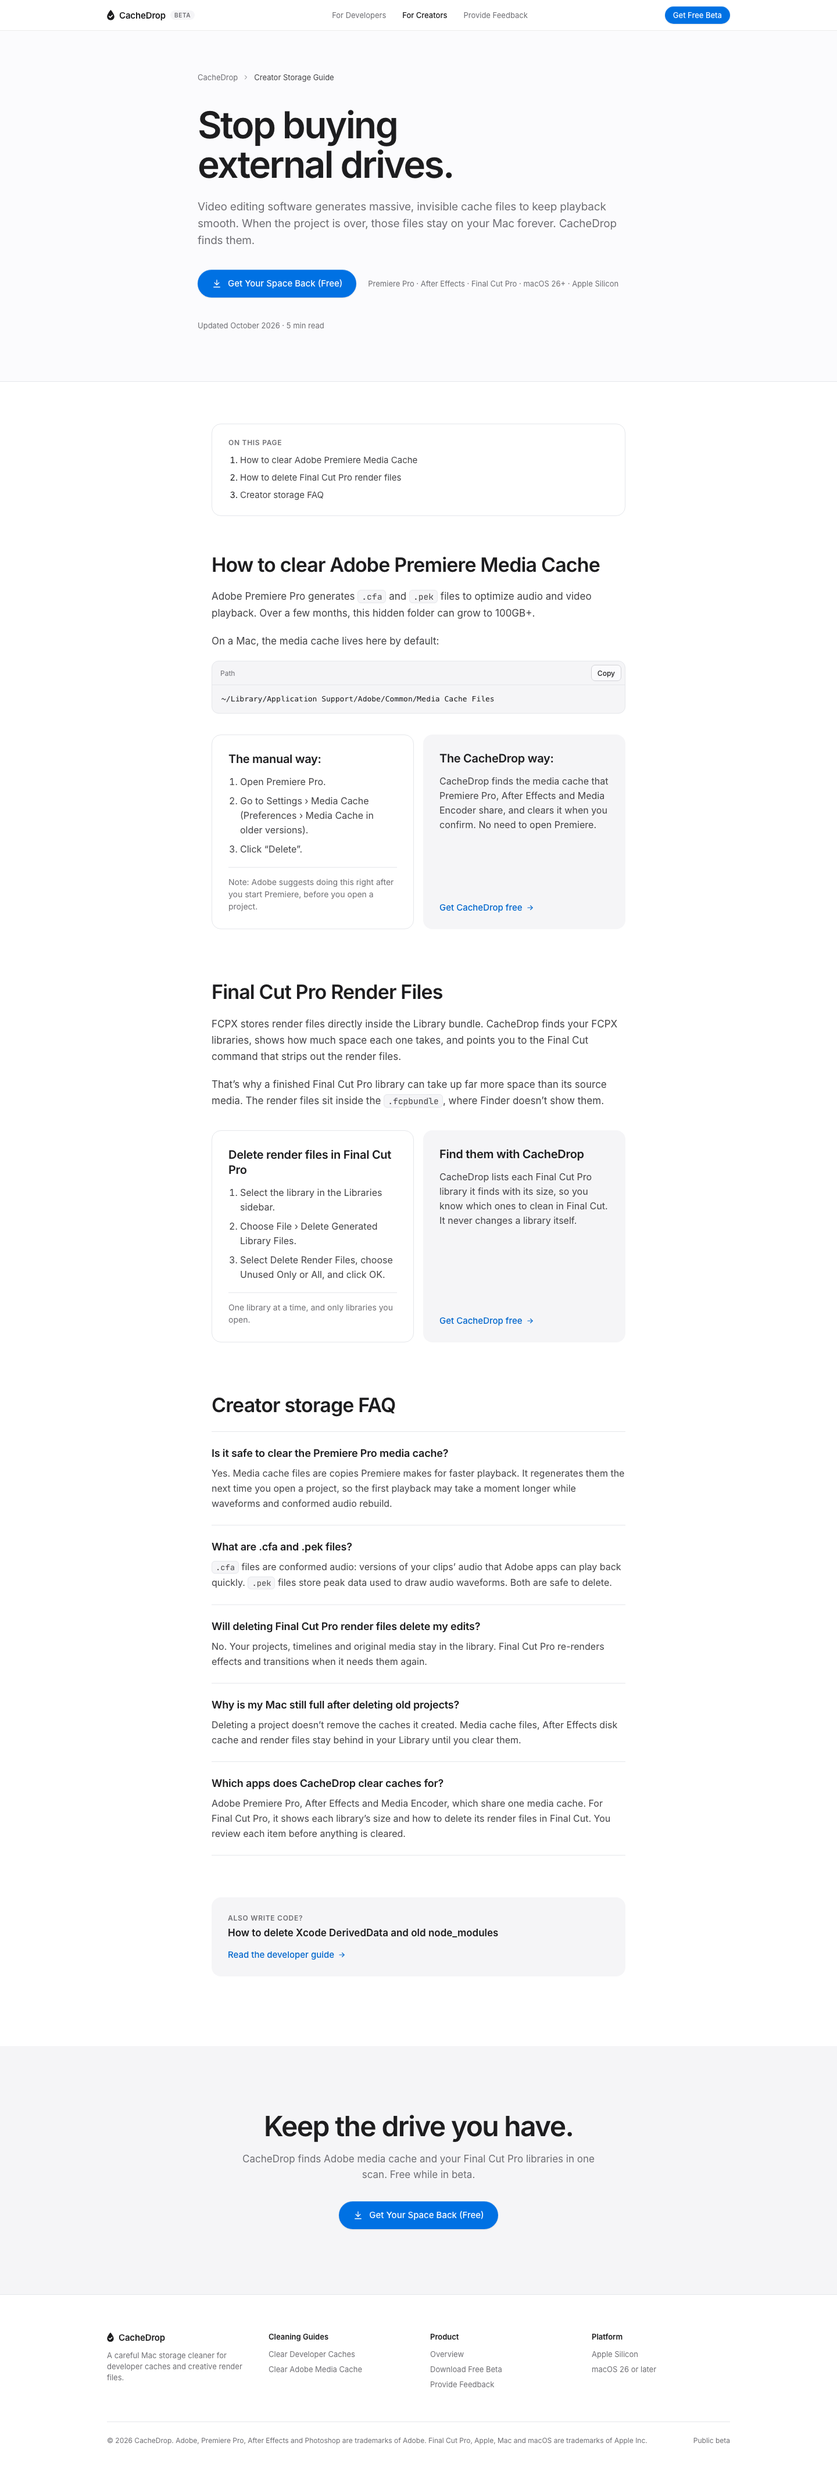
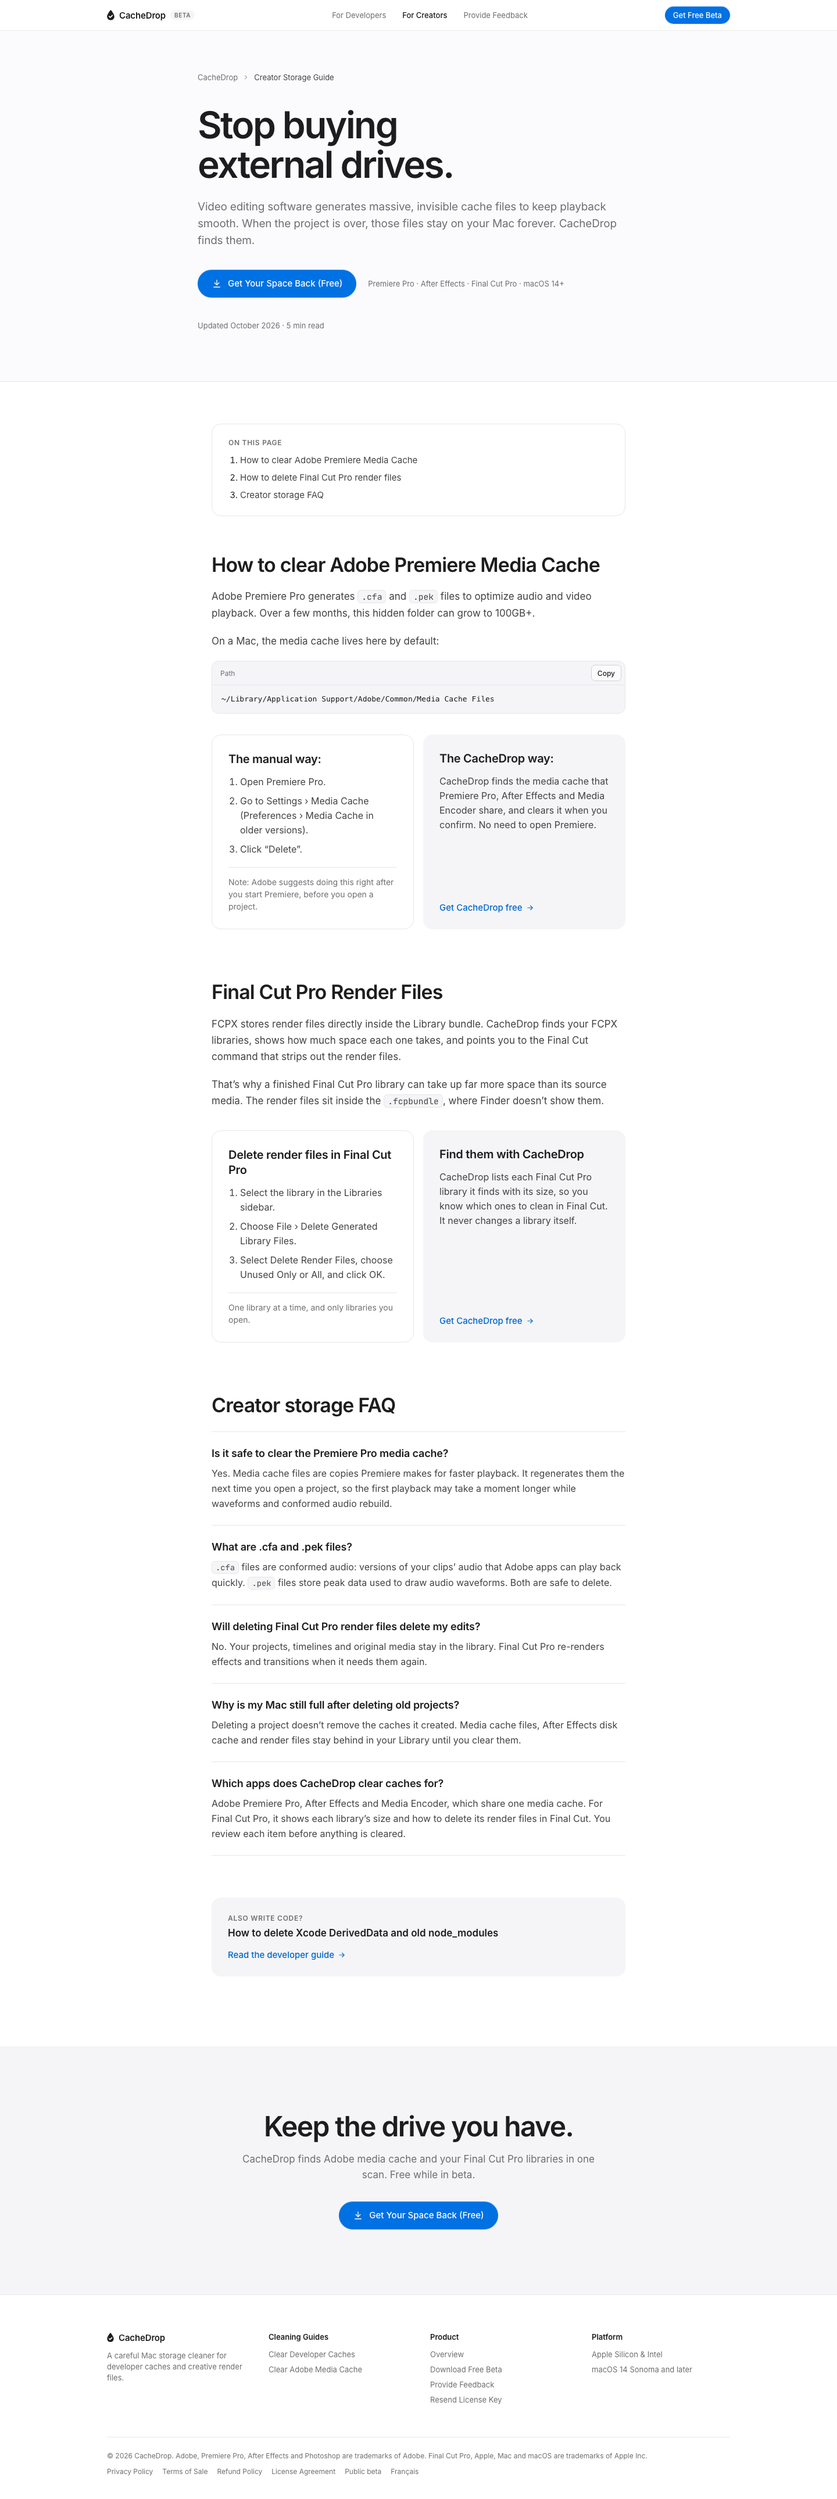
Platform claim: Apple Silicon and Intel, macOS 14 (Decision 46) (#86)
The site goes back to the handoff's platform claim now that CacheDrop 1.0.1 is universal with a macOS 14 minimum (mac-cleaner Decisions 144 and 148). Platform copy fixes dropped, platform spec flipped, reference renders re-rendered.

Claude-Session: https://claude.ai/code/session_01K3hKP4vup4Hu4PvjVsHiMv

diff --git a/tests/copy-fixes.ts b/tests/copy-fixes.ts
@@ -2,19 +2,9 @@
 // The head diff and the same-browser screenshot compare the build with the handoff
 // original after these replacements, so every other byte of copy still has to match.
 // Each `from` is replaced everywhere in its page, which keeps visible FAQ text and the
-// FAQPage JSON-LD in step. Checked against mac-cleaner main at 5bf77c7 on 2026-10-29;
-// the platform fixes against b70960d (Decision 35).
+// FAQPage JSON-LD in step. Checked against mac-cleaner main at 5bf77c7 on 2026-10-29.
+// The platform claim is the handoff's own again (Decision 46): CacheDrop 1.0.1 is universal, macOS 14 or later.
 export type CopyFix = { from: string; to: string; why: string };
-
-/** Why the platform claim changed. When mac-cleaner #322 or #323 lands, the copy and these fixes change back. */
-const PLATFORM =
-  'mac-cleaner’s Release build is ARCHS = arm64 with MACOSX_DEPLOYMENT_TARGET = 26.0 (CacheDrop.xcodeproj, b70960d), so it runs on Apple Silicon with macOS 26 or later. #322 (lower the minimum) and #323 (Intel) are open.';
-
-/** The footer’s Platform column, on every handoff page. */
-const footerPlatform: CopyFix[] = [
-  { from: '<span>Apple Silicon &amp; Intel</span>', to: '<span>Apple Silicon</span>', why: PLATFORM },
-  { from: '<span>macOS 14 Sonoma and later</span>', to: '<span>macOS 26 or later</span>', why: PLATFORM },
-];
 
 export const copyFixes: Record<string, CopyFix[]> = {
   'index.html': [
@@ -75,19 +65,6 @@ export const copyFixes: Record<string, CopyFix[]> = {
       to: 'alone. It deletes only files apps make again, like caches, and sends your own files to the Trash.',
       why: 'RESET.md Decision 3.',
     },
-    { from: '"operatingSystem": "macOS 14 or later"', to: '"operatingSystem": "macOS 26 or later"', why: PLATFORM },
-    { from: 'macOS 14+ on Apple Silicon &amp; Intel', to: 'macOS 26+ on Apple Silicon', why: PLATFORM },
-    {
-      from: 'It’s a universal app for Apple Silicon and Intel Macs running macOS 14 Sonoma or later.',
-      to: 'It runs on Apple Silicon Macs with macOS 26 or later.',
-      why: PLATFORM,
-    },
-    {
-      from: 'One universal app for Apple Silicon and Intel Macs on macOS 14 or later.',
-      to: 'For Apple Silicon Macs on macOS 26 or later.',
-      why: PLATFORM,
-    },
-    ...footerPlatform,
   ],
   'clear-mac-developer-caches/index.html': [
     {
@@ -120,8 +97,6 @@ export const copyFixes: Record<string, CopyFix[]> = {
       to: 'CacheDrop groups the Docker, Homebrew and npm caches under Developer caches',
       why: '“These caches” included Dart’s .pub-cache, which the app doesn’t clean.',
     },
-    { from: 'macOS 14+ · Apple Silicon &amp; Intel', to: 'macOS 26+ · Apple Silicon', why: PLATFORM },
-    ...footerPlatform,
   ],
   'clear-adobe-media-cache-mac/index.html': [
     {
@@ -155,18 +130,8 @@ export const copyFixes: Record<string, CopyFix[]> = {
       to: 'Adobe media cache and your Final Cut Pro libraries in one scan',
       why: 'As above.',
     },
-    { from: 'Final Cut Pro · macOS 14+', to: 'Final Cut Pro · macOS 26+ · Apple Silicon', why: PLATFORM },
-    ...footerPlatform,
   ],
   'download/index.html': [
-    {
-      from: 'Download the free CacheDrop beta for Mac: a universal app for Apple Silicon and Intel Macs on macOS 14 or later.',
-      to: 'Download the free CacheDrop beta for Apple Silicon Macs on macOS 26 or later.',
-      why: PLATFORM,
-    },
-    { from: '<span>Universal: Apple Silicon &amp; Intel</span>', to: '<span>Apple Silicon</span>', why: PLATFORM },
-    { from: '<span>macOS 14 Sonoma or later</span>', to: '<span>macOS 26 or later</span>', why: PLATFORM },
-    ...footerPlatform,
   ],
 };
 

diff --git a/src/pages/[...lang]/download/_head.ts b/src/pages/[...lang]/download/_head.ts
@@ -10,24 +10,24 @@ export const downloadHead = {
     {
       ...shared,
       title: 'Download CacheDrop for Mac',
-      description: 'Download the free CacheDrop beta for Apple Silicon Macs on macOS 26 or later.',
+      description: 'Download the free CacheDrop beta for Mac: a universal app for Apple Silicon and Intel Macs on macOS 14 or later.',
     },
-    { description: 'Download CacheDrop, free to try, for Apple Silicon Macs on macOS 26 or later.' },
+    { description: 'Download CacheDrop for Mac, free to try: a universal app for Apple Silicon and Intel Macs on macOS 14 or later.' },
   ),
   fr: withLaunch(
     {
       ...shared,
       title: 'Télécharger CacheDrop pour Mac',
-      description: 'Téléchargez la bêta gratuite de CacheDrop pour les Mac Apple Silicon sous macOS 26 ou version ultérieure.',
+      description: 'Téléchargez la bêta gratuite de CacheDrop pour Mac : une application universelle pour les Mac Apple Silicon et Intel sous macOS 14 ou version ultérieure.',
     },
-    { description: 'Téléchargez CacheDrop et essayez-le gratuitement sur les Mac Apple Silicon sous macOS 26 ou version ultérieure.' },
+    { description: 'Téléchargez CacheDrop pour Mac et essayez-le gratuitement : une application universelle pour les Mac Apple Silicon et Intel sous macOS 14 ou version ultérieure.' },
   ),
 };
 
 /** The line under the title on both pages: price, architectures, macOS. */
 export const downloadMeta = {
-  en: [withLaunch({ price: 'Free while in beta' }, { price: 'Free to try' }).price, 'Apple Silicon', 'macOS 26 or later'],
-  fr: [withLaunch({ price: 'Gratuit pendant la bêta' }, { price: 'Essai gratuit' }).price, 'Apple Silicon', 'macOS 26 ou version ultérieure'],
+  en: [withLaunch({ price: 'Free while in beta' }, { price: 'Free to try' }).price, 'Universal: Apple Silicon & Intel', 'macOS 14 Sonoma or later'],
+  fr: [withLaunch({ price: 'Gratuit pendant la bêta' }, { price: 'Essai gratuit' }).price, 'Universelle : Apple Silicon et Intel', 'macOS 14 Sonoma ou version ultérieure'],
 };
 
 /** The links to the guides at the bottom of both pages. */

diff --git a/tests/platform.spec.ts b/tests/platform.spec.ts
@@ -1,25 +1,24 @@
 import { test, expect } from '@playwright/test';
 import { pages } from './pages';
 
-// Decision 35: the platform claim follows the shipping build. mac-cleaner's Release
-// configuration is ARCHS = arm64, MACOSX_DEPLOYMENT_TARGET = 26.0, so CacheDrop runs on
-// Apple Silicon Macs with macOS 26 or later. When mac-cleaner #322 (lower minimum) or
-// #323 (Intel) lands, this spec changes with the copy.
+// Decisions 35 and 46: the platform claim follows the shipping build. From CacheDrop 1.0.1
+// mac-cleaner's Release build is universal (arm64 x86_64) with MACOSX_DEPLOYMENT_TARGET = 14.0
+// (mac-cleaner Decisions 144 and 148), so CacheDrop runs on Apple Silicon and Intel Macs with
+// macOS 14 or later: the handoff's own claim.
 for (const p of pages) {
-  test(`${p.path} claims Apple Silicon and macOS 26, never Intel or macOS 14`, async ({ request }) => {
+  test(`${p.path} claims Apple Silicon and Intel on macOS 14, never macOS 26`, async ({ request }) => {
     const html = await (await request.get(p.path)).text();
-    expect(html).not.toMatch(/\bIntel\b/);
-    expect(html).not.toMatch(/macOS 14|Sonoma/);
+    expect(html).not.toMatch(/macOS 26/);
     // The footer's Platform column is on every page.
-    expect(html).toContain('Apple Silicon');
-    expect(html).toContain('macOS 26');
+    expect(html).toMatch(/Apple Silicon (&amp;|&|et) Intel/);
+    expect(html).toContain('macOS 14');
   });
 }
 
-const operatingSystem = { '/': 'macOS 26 or later', '/fr/': 'macOS 26 ou version ultérieure' };
+const operatingSystem = { '/': 'macOS 14 or later', '/fr/': 'macOS 14 ou version ultérieure' };
 
 for (const [path, expected] of Object.entries(operatingSystem)) {
-  test(`${path} SoftwareApplication JSON-LD names macOS 26 or later`, async ({ page }) => {
+  test(`${path} SoftwareApplication JSON-LD names macOS 14 or later`, async ({ page }) => {
     await page.goto(path);
     const app = await page.evaluate(() =>
       [...document.querySelectorAll('script[type="application/ld+json"]')]

diff --git a/docs/DECISIONS.md b/docs/DECISIONS.md
@@ -81,3 +81,4 @@ The legal points below come from primary sources and law-firm summaries research
 43. **Terms of sale, refund policy and license agreement** (#65, follows mac-cleaner Decisions 135 and 136, 2026-11-01). Three pages in English and French, in the privacy page's layout (`src/layouts/Legal.astro`): `/terms-of-sale/`, `/refund-policy/` and `/license-agreement/`, each with its `/fr/` twin. Claude drafted them (not legal advice); the owner approved the wording on 2026-11-01, so they are in the sitemap. A lawyer's review before live payments is recommended, not done. They say only what Decisions 135 and 136 decided: a one-time license with no subscription, 29.99 shown discounted to 19.99 in USD, CAD, EUR, GBP and AUD, the 2 GB trial, personal use on up to 3 Macs on honour with an offline check and no activation server, every 1.x release, refunds within 30 days with no questions asked by email to `hello@cachedrop.io` (no new mailbox), and revocation of refunded, charged-back or leaked licenses through the list compiled into the next release. The "who sells it" copy and the refund page's "Asking Link instead" section assume Stripe Managed Payments, where Link is the merchant of record and Stripe may refund within 60 days of purchase whatever a seller's policy says (Stripe Managed Payments Terms §3.3); the owner kept them (2026-11-01); they change if CacheDrop sells directly (mac-cleaner #593). No postal address is published (Decision 33 stands): under Managed Payments Link is the seller of record; if Stripe requires a seller address anyway, that is revisited then. Links to Stripe's customer terms that Stripe Managed Payments Terms §7(c) requires are added once Stripe says which. Governing law is Quebec's (owner, 2026-11-01). The warranty and liability clauses defer to consumer protection law that can't be waived, such as Quebec's Consumer Protection Act, without claiming what it allows; the owner checks them. The pages are linked from the footer of every page, after the privacy policy. No Buy flow exists yet, so nothing else links them: the Stripe checkout's terms of service setting (with the Payment Link, #66) and any Buy page add them when they exist.
 44. **Pricing, Buy and "Download free" behind one launch setting** (amends 1, 5 and 43; #74, mac-cleaner Decision 135, 2026-11-01). Everything here shows only when the build-time variable `PUBLIC_PRICING_LIVE` is `1`; unset or any other value builds the site exactly as before, which the handoff screenshot and head comparisons and `tests/pricing-off.spec.ts` check. The owner turns it on on launch day, once the gating release is on the update feed, by setting `PUBLIC_PRICING_LIVE=1` in Vercel (Production) and redeploying: Astro reads it at build time, so a change takes effect only with a new deployment. The download email's server code reads the same variable at run time (`src/server/vercel.ts`), and Vercel hands a function its environment when it is deployed, so the same redeploy switches both. With it on: a pricing section on the homepage, between "Careful by default" and the FAQ, and the same section as `/pricing/` and `/fr/pricing/` (not built at all with it off), built from the homepage's own parts (section header, feature card, large buttons, ruled rows); it shows ~~$29.99~~ $19.99 one-time (« 29,99 $ » struck through, « 19,99 $ », « une seule fois »), "Pay in USD, CAD, EUR, GBP or AUD: the same number in each.", free cleanup up to 2 GB with scanning always free, up to 3 Macs, every 1.x release, 30-day refunds with no questions asked, and links to the terms of sale, refund policy and license agreement. Screen readers hear one sentence ("Was $29.99, now $19.99, one-time."; « Prix régulier 29,99 $, maintenant 19,99 $, une seule fois. ») and the struck-through and current prices are hidden from them, because `<del>`/`<s>` are not announced reliably. Buy links go to `/buy` from English pages and `/buy?lang=fr` from French ones (Decision 41), from the pricing section, `/pricing/` and the download page's "Already tried it? Buy a license" line, which sits under the email card so it shows both before and after the link is sent; never in the nav or on the guides. The nav loses its BETA badge, gains a Pricing link (« Prix ») after For Developers and For Creators, and its one primary button reads "Download Free" (« Télécharger gratuitement »): Title Case as the brand guide wants for buttons, for the ticket's "Download free". The beta copy elsewhere becomes "free to try" (homepage badge, meta line, FAQ price answer, closing line, the guides' closing line, the download pages' title and meta, the footer's download link, the download email); the footer's "Public beta" label goes with the badge. The homepage's SoftwareApplication offer carries 19.99 USD instead of 0. The email gate stays required (Decision 1; #60 and mac-cleaner #581 depend on it): every Download button still goes to `/download/`. `/pricing/` and `/fr/pricing/` join the sitemap only in a build with the setting on: `public/sitemap.xml` stays without them and an Astro build hook (`scripts/pricing-sitemap.mjs`) adds them to the built copy. Tests run against two builds: `playwright.config.ts` builds a second copy with the setting on into `dist-pricing-live/`, serves it on `PORT + 1` and runs `tests/pricing-live.spec.ts` against it as the `pricing-live` project; every other spec runs against the default build. The price is the one the terms state (Decision 43); changing it means changing the copy in `src/components/pricing.ts` and the sale pages together.
 45. **Free licenses from an owner script** (builds on 40 and 42, 2026-11-02). The owner gives someone a license without Stripe by running `scripts/comp-license.sh <dev|prod> <email> [--lang en|fr] [--note "why"]`. A license key is already the code, so there are no redeemable coupon codes and no 100%-off Stripe promotion codes: those would need a checkout, would put $0 sales in Stripe, and the webhook ignores sessions that aren't `paid`. The script can't sign keys, because the private key exists only as a Supabase secret, so it calls a third route on the `license` function, `POST /license/comp`, with `Authorization: Bearer <LICENSE_ADMIN_SECRET>`. That secret is set per project, held by the owner, read from `.env.local` for `dev` and only from the shell for `prod`, which also asks the owner to type `prod`. The route answers `503` while the secret is unset or shorter than 32 characters. It saves the license with `source = 'comp'`, no Stripe IDs and the optional note (up to 200 characters), and then signs and emails the key like a bought one. The email uses the gift wording ("A CacheDrop license, on us" / « Une licence CacheDrop, offerte »), with no thanks for buying, no proof of purchase and no refund line. The script picks the license's UUID, so running it again with `--id` after a failed email sends the same key instead of a second license. The route never sends the key of a row whose ID belongs to a purchase or to another address. "Resend my key" sends a free license again in the gift wording, and revocation treats it like any other license. The privacy policy says a free license's record has a note instead of Stripe's codes. `docs/licensing.md` has the setup.
+46. **The platform claim is the handoff's again: Apple Silicon and Intel, macOS 14** (amends 35; mac-cleaner Decisions 144 and 148, #606, #611, 2026-11-02). CacheDrop 1.0.1 is a universal build (`arm64 x86_64`) with a macOS 14 minimum, so the site says what the handoff said before Decision 35 narrowed it: the footer's "Apple Silicon & Intel" and "macOS 14 Sonoma and later", the homepage's "macOS 14+ on Apple Silicon & Intel", "a universal app for Apple Silicon and Intel Macs running macOS 14 Sonoma or later" and "One universal app for Apple Silicon and Intel Macs on macOS 14 or later.", the guides' "macOS 14+" notes and the download page's "Universal: Apple Silicon & Intel" and "macOS 14 Sonoma or later", in English as the handoff wrote them and in French per `docs/french-glossary.md`. The terms of sale state the same. `tests/copy-fixes.ts` drops its platform replacements, since the copy matches the handoff again, and `tests/platform.spec.ts` now requires Apple Silicon and Intel on macOS 14 and never macOS 26. It merges when 1.0.1 is on the update feed, not before, so the site never claims a Mac the shipping build doesn't run on. The demo video's end card text in `docs/demo-video.md` follows; a video already rendered keeps its old card until it is re-rendered.

diff --git a/docs/demo-video.md b/docs/demo-video.md
@@ -58,7 +58,7 @@ No Welcome screen in any cut. Start on Overview after a scan has finished.
 | 4 | 0:18–0:22 | Cleaning | Click **Clean up** in the sheet; progress |
 | 5 | 0:22–0:29 | Results | Hold on **Measured freed space** {M} GB, then the "In the Trash" line |
 | 6 | 0:29–0:35 | Applications | **Files from deleted apps**: the LoopSmith group, ticked, with its size |
-| 7 | 0:35–0:40 | End card | "Free to try · Apple Silicon Macs, macOS 26+" · cachedrop.io |
+| 7 | 0:35–0:40 | End card | "Free to try · Apple Silicon & Intel Macs, macOS 14+" · cachedrop.io |
 
 Scene 6 must come from a take filmed **before** cleaning: Smart clean includes files from deleted apps (Decision 67), so after scene 5 the LoopSmith group is gone. Film it right after a `reset` and scan, and cut it in.
 
@@ -89,7 +89,7 @@ The timings are a plan; the rehearsal take on `main` sets them (the Review sheet
 | 4 | Each item is checked again right before CacheDrop acts on it. | Chaque élément est vérifié de nouveau juste avant que CacheDrop agisse. |
 | 5 | {M} GB freed, measured on the disk, not estimated. | {M} Go libérés, mesurés sur le disque, pas estimés. |
 | 6 | Files from deleted apps, tied to each app by its bundle ID, go to the Trash. | Les fichiers d’applications supprimées, liés à chaque application par son identifiant, vont à la Corbeille. |
-| 7 | Free to try · Apple Silicon Macs, macOS 26+ · cachedrop.io | Essai gratuit · Mac Apple Silicon, macOS 26+ · cachedrop.io |
+| 7 | Free to try · Apple Silicon & Intel Macs, macOS 14+ · cachedrop.io | Essai gratuit · Mac Apple Silicon et Intel, macOS 14+ · cachedrop.io |
 
 ### Producers (15 s)
 
@@ -99,7 +99,7 @@ The timings are a plan; the rehearsal take on `main` sets them (the Review sheet
 | 2 | Ableton Live’s decoded samples and your music apps’ caches. Your Sets, samples and Packs are kept. | Les échantillons décodés d’Ableton Live et les caches de vos applications de musique. Vos Sets, échantillons et Packs sont conservés. |
 | 3 | See exactly what happens before anything changes. | Voyez exactement ce qui arrive avant tout changement. |
 | 4 | {M} GB freed, measured. | {M} Go libérés, mesurés. |
-| 5 | Free to try · Apple Silicon Macs, macOS 26+ · cachedrop.io | Essai gratuit · Mac Apple Silicon, macOS 26+ · cachedrop.io |
+| 5 | Free to try · Apple Silicon & Intel Macs, macOS 14+ · cachedrop.io | Essai gratuit · Mac Apple Silicon et Intel, macOS 14+ · cachedrop.io |
 
 ### Developers (15 s)
 
@@ -109,7 +109,7 @@ The timings are a plan; the rehearsal take on `main` sets them (the Review sheet
 | 2 | Xcode DerivedData, npm and Homebrew caches. Archives and your projects are kept. | DerivedData de Xcode, caches npm et Homebrew. Les archives et vos projets sont conservés. |
 | 3 | See exactly what happens before anything changes. | Voyez exactement ce qui arrive avant tout changement. |
 | 4 | {M} GB freed, measured. | {M} Go libérés, mesurés. |
-| 5 | Free to try · Apple Silicon Macs, macOS 26+ · cachedrop.io | Essai gratuit · Mac Apple Silicon, macOS 26+ · cachedrop.io |
+| 5 | Free to try · Apple Silicon & Intel Macs, macOS 14+ · cachedrop.io | Essai gratuit · Mac Apple Silicon et Intel, macOS 14+ · cachedrop.io |
 
 Wording rules followed: no "speed up your Mac", no "you have X GB" (the figure is "on this Mac"), no fear claims, and no "everything goes to the Trash" (Decision 23).
 
@@ -126,7 +126,7 @@ Wording rules followed: no "speed up your Mac", no "you have X GB" (the figure i
 | Tied by bundle ID; goes to the Trash | `RemovedAppLeftovers.swift:4-6`; RESET Decision 41 |
 | Ableton: Sets, samples and Packs are kept | `AppDataCaches.swift:110-115` (the rule's own consequence text) |
 | Xcode: archives and projects are kept | `Catalog.swift:277-280` (the rule's own consequence text) |
-| Apple Silicon, macOS 26+ | site Decision 35 (Release `ARCHS = arm64`, `MACOSX_DEPLOYMENT_TARGET = 26.0`) |
+| Apple Silicon & Intel, macOS 14+ | site Decision 46 (universal Release `arm64 x86_64`, `MACOSX_DEPLOYMENT_TARGET = 14.0`; mac-cleaner Decisions 144 and 148) |
 
 **Not verified, owner to decide:**
 - **"Free to try"** (owner, 2026-11-01): generic on purpose, so the cuts stay true through the beta, trials and tiered features later. Don't change it to "Free" or "Free beta".
